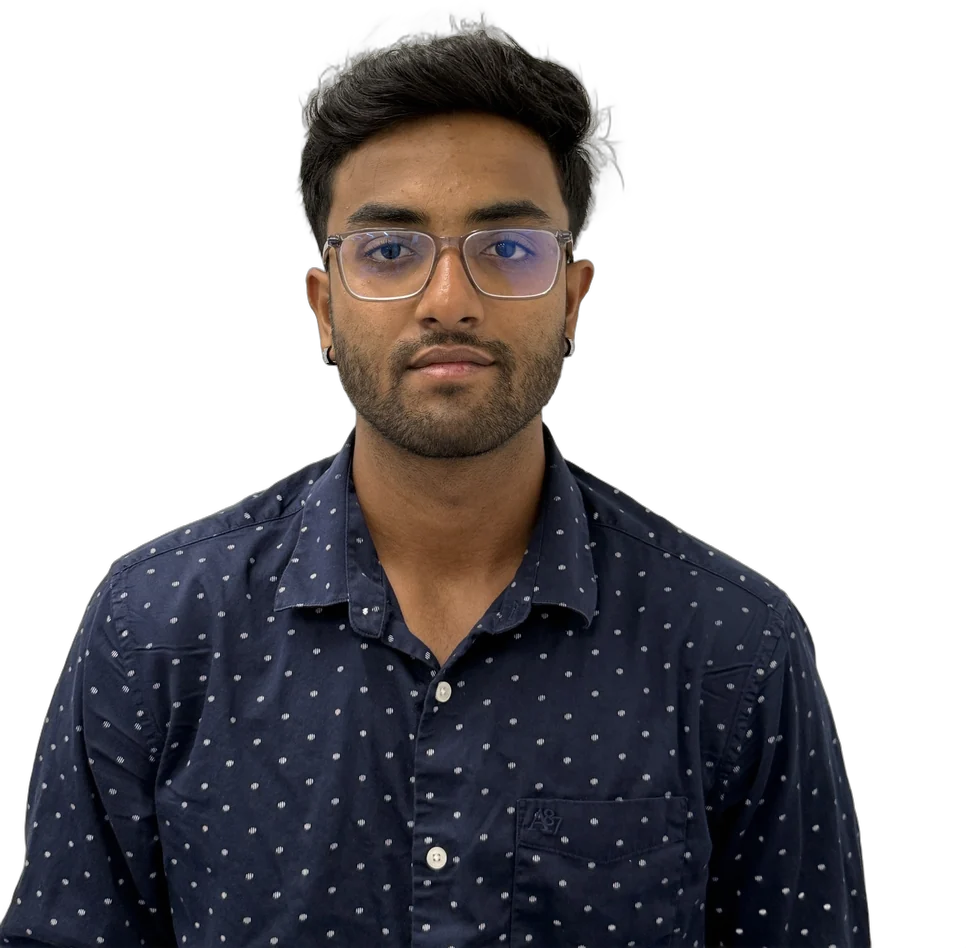
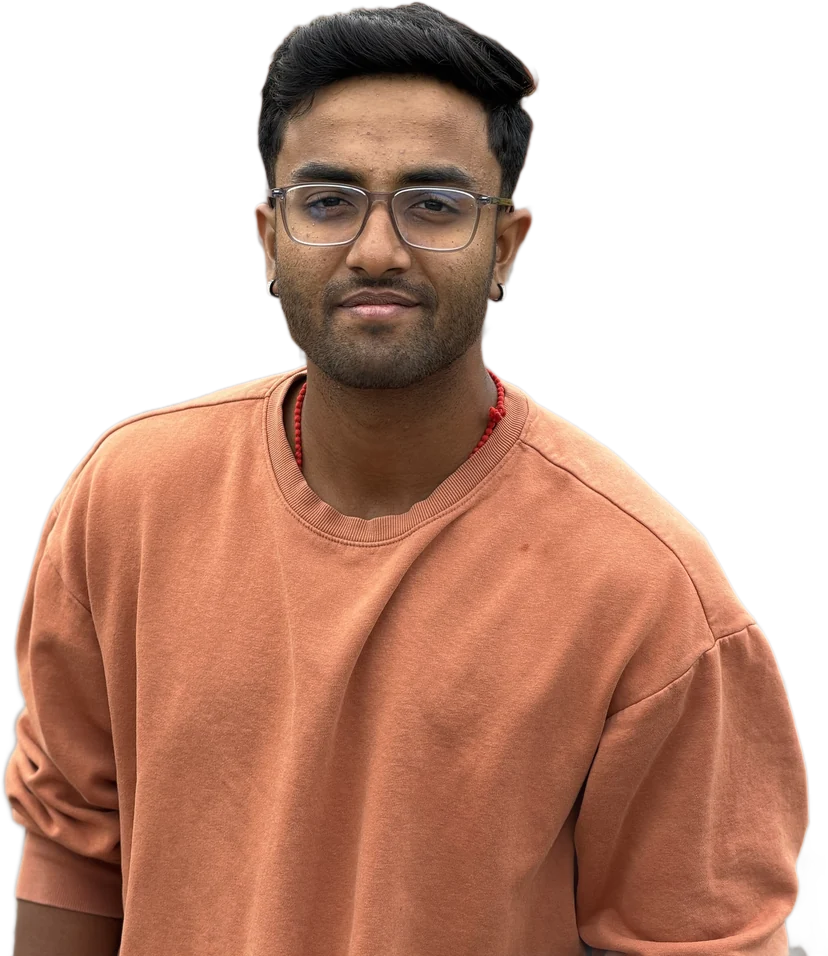
Swap hero portrait for the outdoor photo
Claude-Session: https://claude.ai/code/session_017CKsgcXXW92fG9bT12ZLYB

diff --git a/components/Hero.tsx b/components/Hero.tsx
@@ -42,14 +42,14 @@ export default function Hero() {
           {site.portrait && (
             <div
               data-build
-              className="absolute inset-x-0 bottom-0 z-10 mx-auto w-[96vw] max-w-[520px] sm:w-[64vw] lg:w-[42vw] lg:max-w-[620px]"
+              className="absolute inset-x-0 bottom-0 z-10 mx-auto w-[96vw] max-w-[520px] sm:w-[64vw] lg:w-[38vw] lg:max-w-[560px]"
             >
               {/* eslint-disable-next-line @next/next/no-img-element */}
               <img
                 src={site.portrait}
                 alt={site.name}
-                width={966}
-                height={948}
+                width={828}
+                height={956}
                 className="portrait-tint block h-auto w-full"
               />
             </div>
